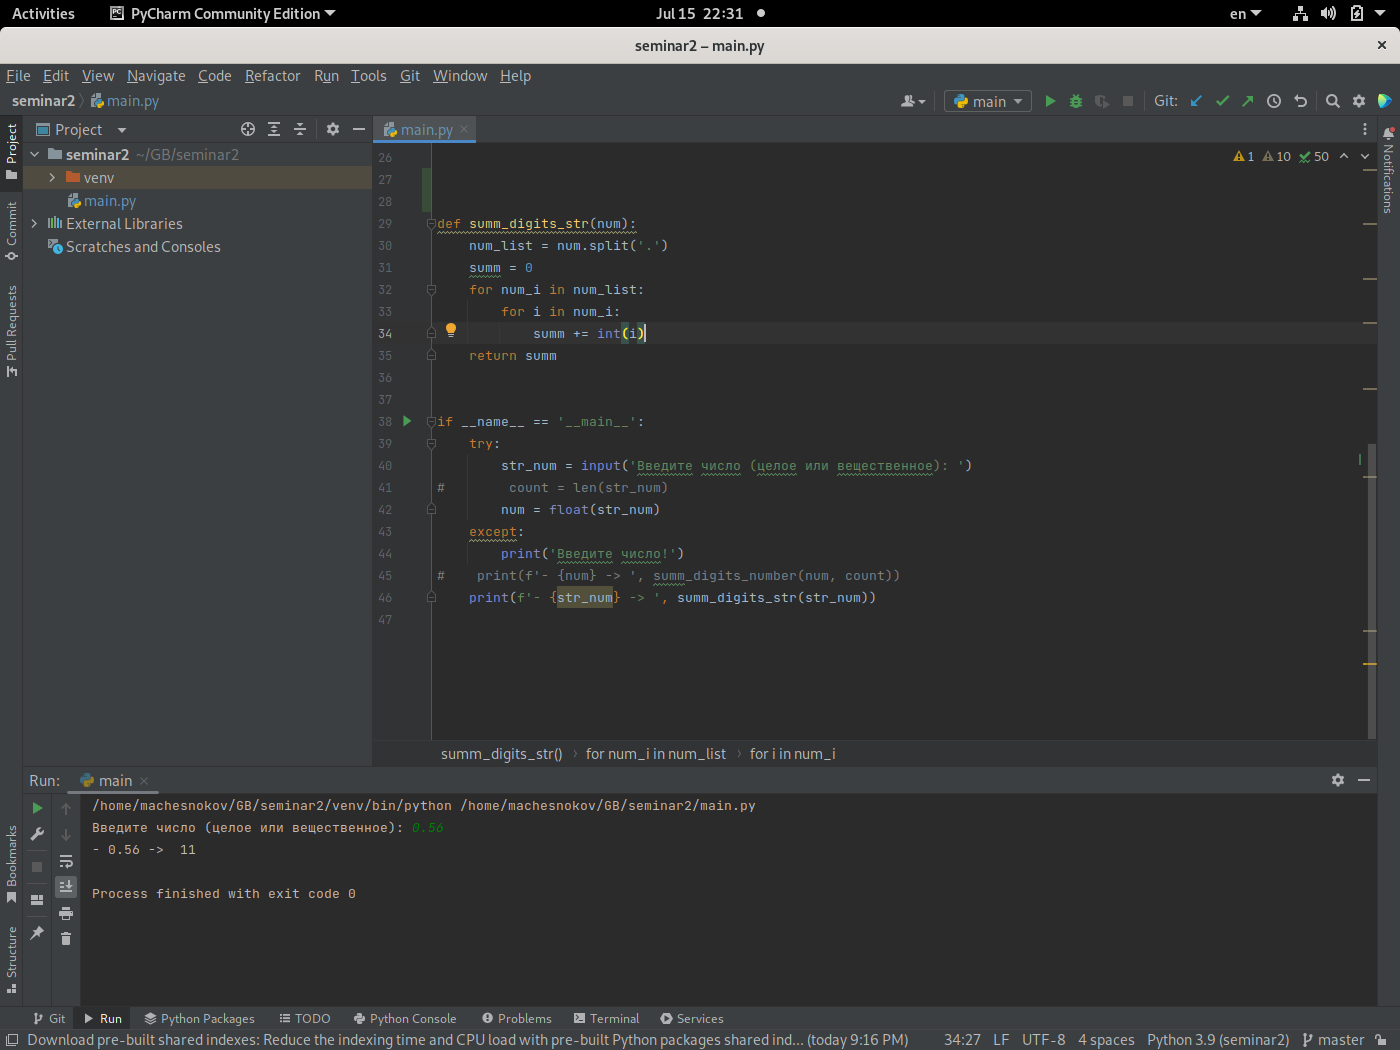
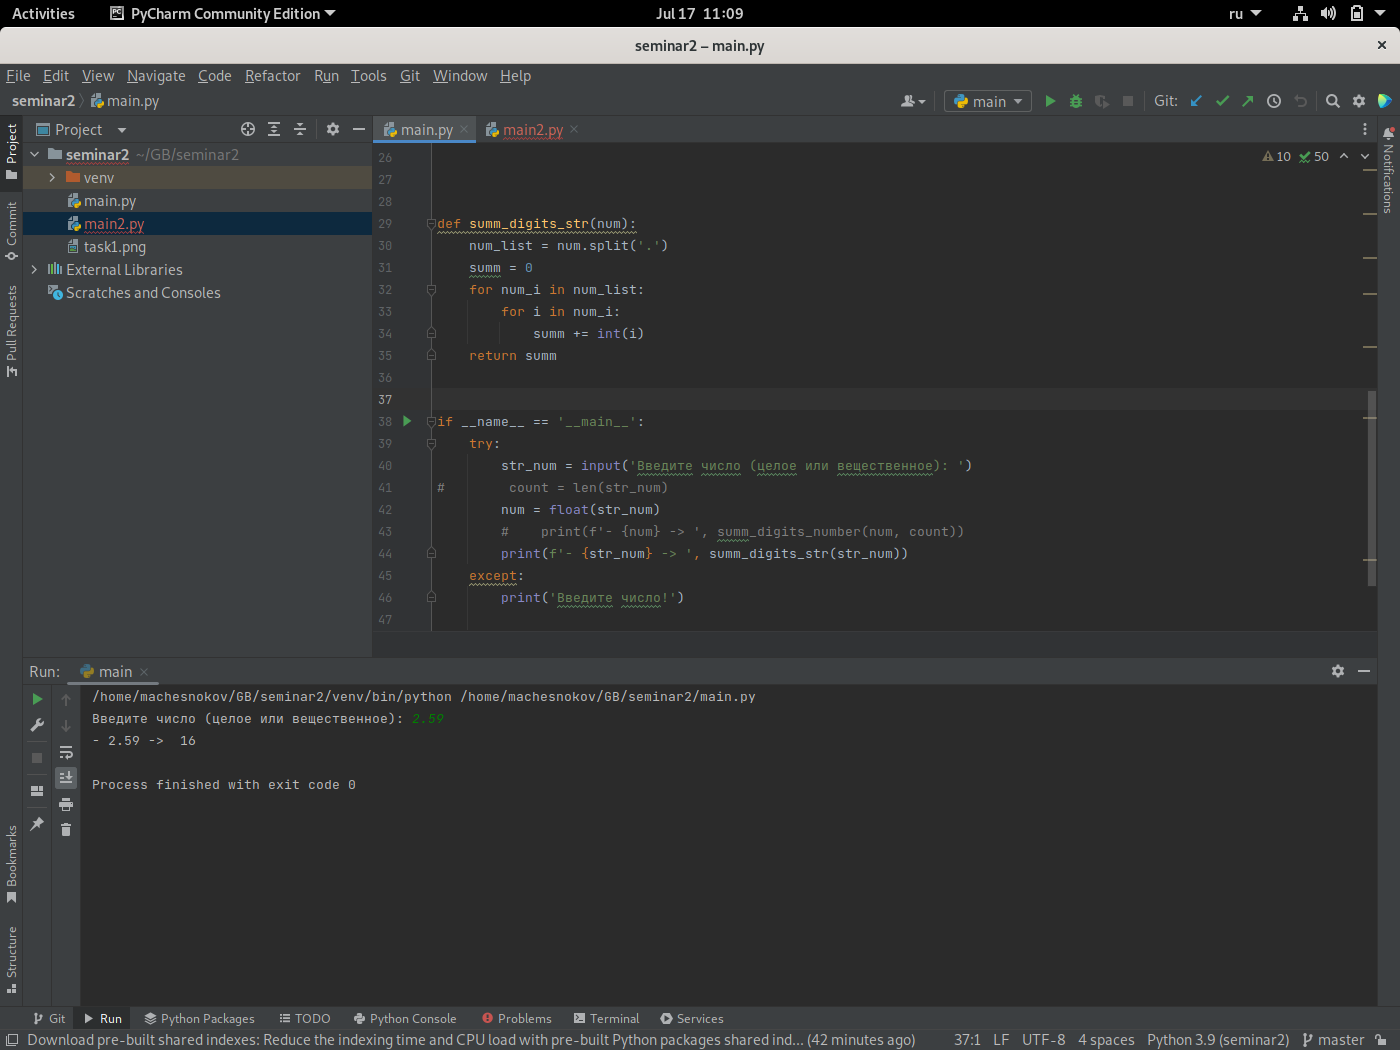
task1 of seminar2 update image

diff --git a/seminar2/main2.py b/seminar2/main2.py
@@ -1,0 +1,14 @@
+'''
+Напишите проамму, которая принимает на вход число N и выдает набор произведений чисел от 1 до N/
+Пример:
+пусть N 4: тогда [1, 2, 6, 24] (1, 1*2, 1*2*3, 1*1*3*4)
+'''
+
+def multiply_numbers
+if __name__ == '__main__':
+    try:
+        str_num = input('Введите целое число ')
+        num = int(str_num)
+        print(f'- {str_num} -> ', summ_digits_str(str_num))
+    except:
+        print('Введите целое число!')
